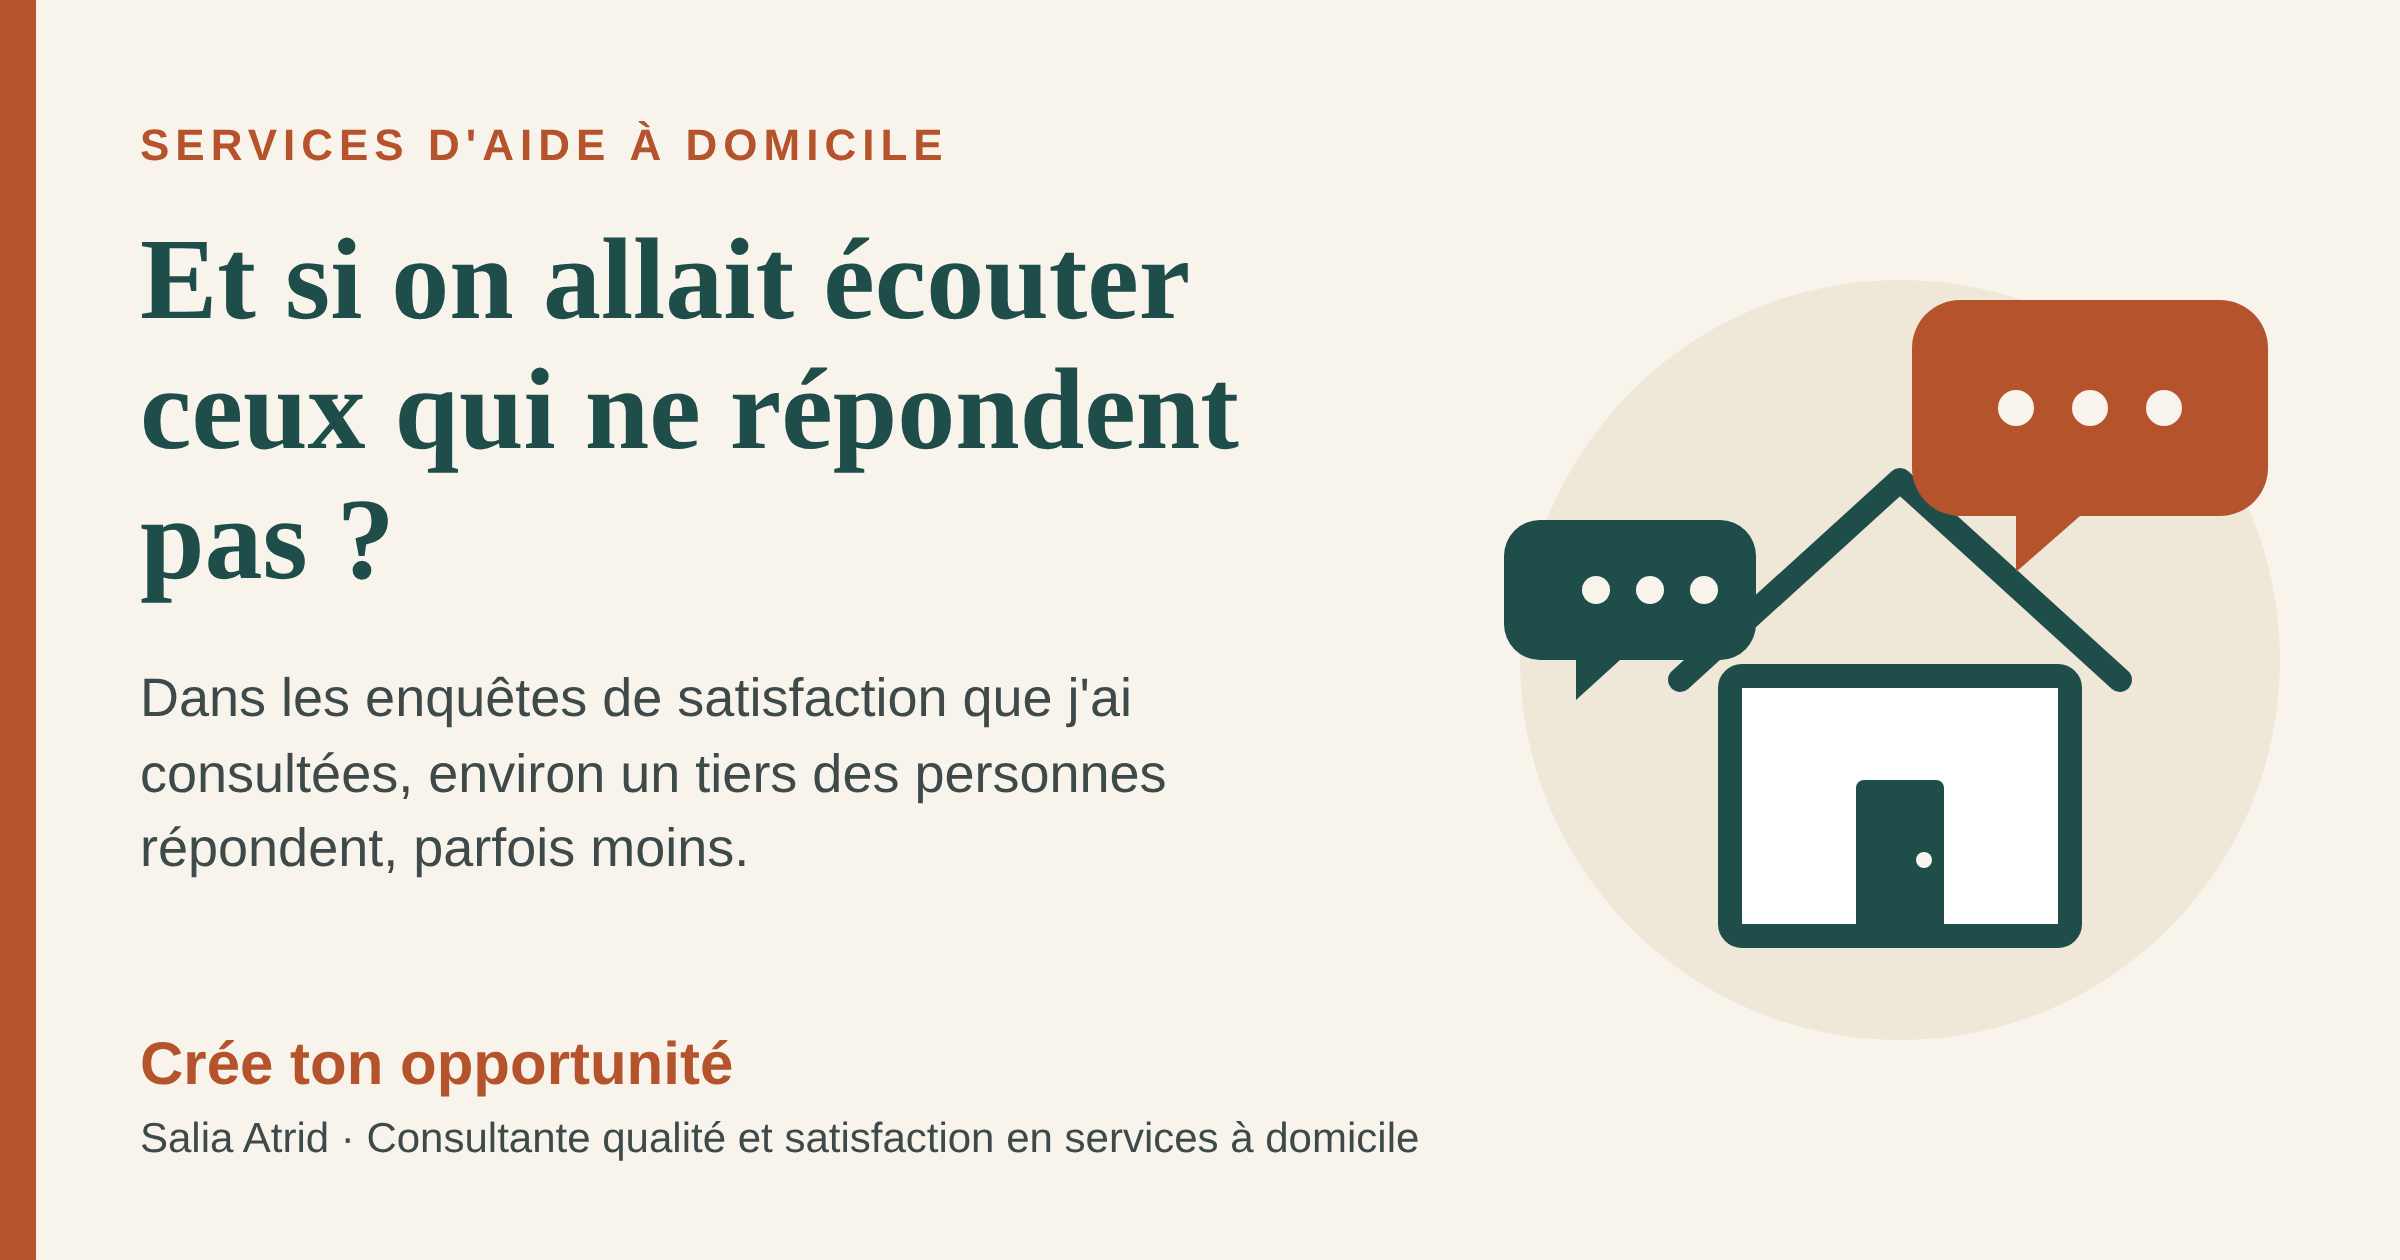
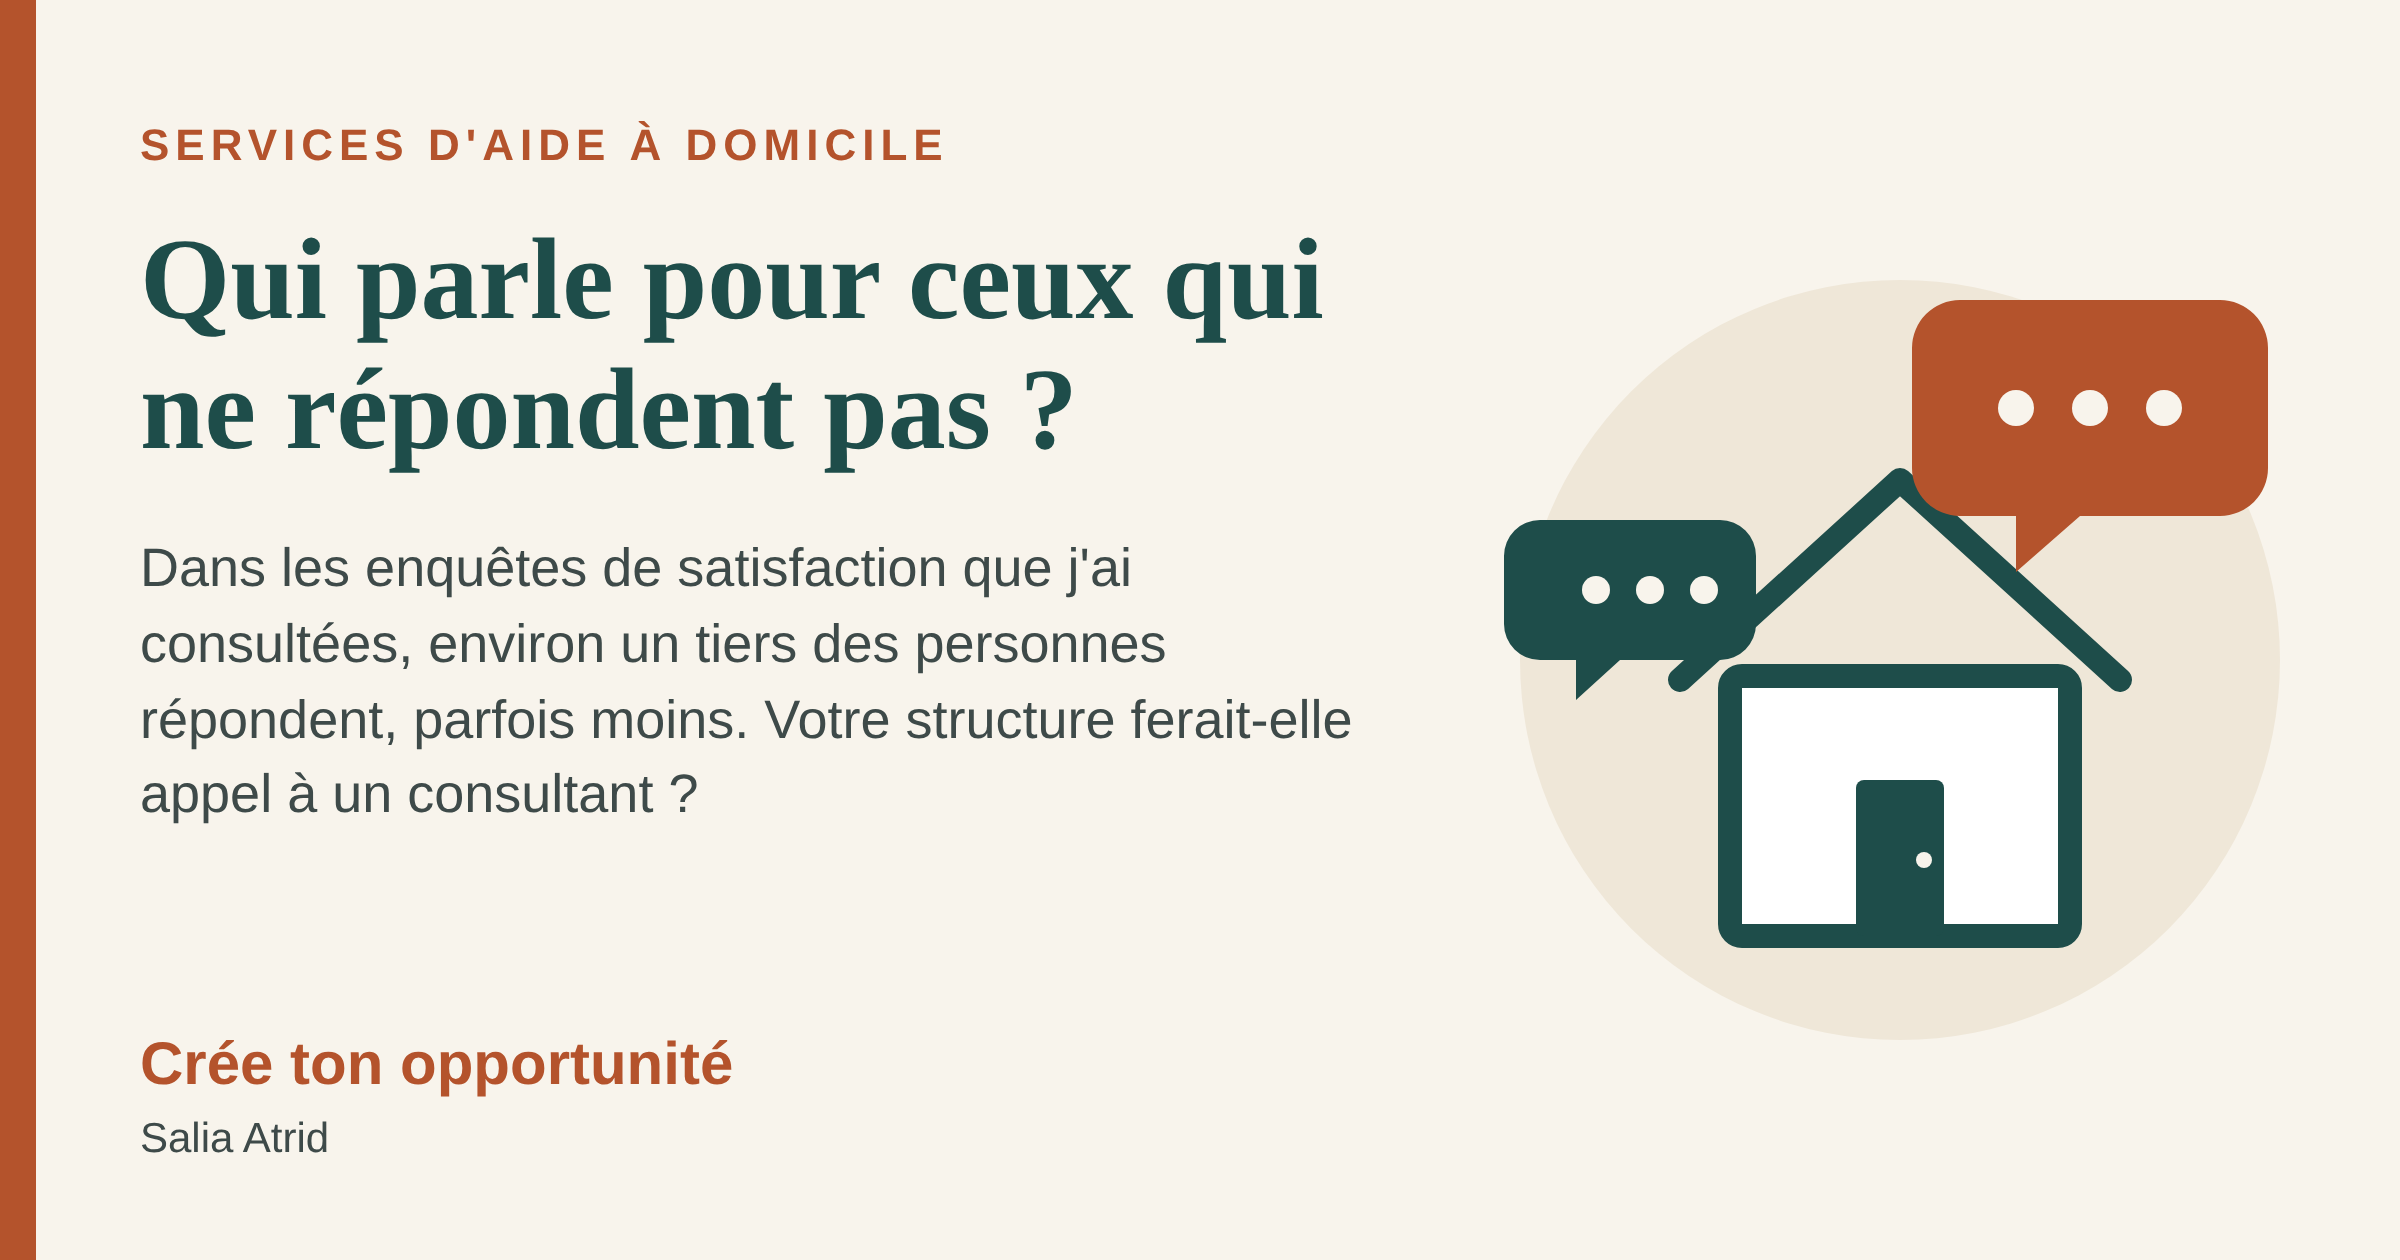
Rewrite LinkedIn post without job title
Claude-Session: https://claude.ai/code/session_01DUbn4TdR4irRbbjaA9jduD

Changed region(s): [[0.0625, 0.4024, 0.5625, 0.7119], [0.0625, 0.1857, 0.5625, 0.3714], [0.1562, 0.8976, 0.5938, 0.9286]]

diff --git a/visites-qualite/15-post-linkedin.md b/visites-qualite/15-post-linkedin.md
@@ -1,51 +1,49 @@
-# Post LinkedIn : sonder le point de vue des structures
+# Post LinkedIn : sonder l'intérêt pour un consultant
 
-*Image jointe : `post-linkedin.png` (1200 × 630 px, format paysage pour LinkedIn). Vérifiez le texte avant de publier.*
+*Image jointe : `post-linkedin.png` (1200 × 630 px). Le post ne nomme ni votre poste, ni votre offre : il sonde seulement l'intérêt de faire appel à un consultant. Relisez avant de publier.*
 
 ## Version recommandée (à copier)
 
-Et si on allait écouter ceux qui ne répondent pas ?
+Les enquêtes de satisfaction des services d'aide à domicile obtiennent souvent peu de réponses : dans celles que j'ai consultées, environ un tiers des personnes répondent, parfois moins.
 
-Dans les enquêtes de satisfaction que j'ai consultées auprès de services d'aide à domicile, environ un tiers des personnes répondent, parfois moins. Ce sont souvent les personnes isolées ou en difficulté d'écriture qui restent silencieuses.
+Qui parle pour les autres ?
 
-Je réfléchis à une façon de compléter ces enquêtes : rencontrer à domicile, avec leur accord, les bénéficiaires qui ne répondent pas, puis remettre à la structure un compte rendu et des pistes d'amélioration. Cela ne remplace pas l'évaluation externe : c'est un regard extérieur en plus.
+Je me pose une question simple : dans vos structures, **qui aurait intérêt à faire appel à un consultant** pour recueillir l'avis des personnes qui ne répondent pas, et mieux comprendre leur ressenti ?
 
-Je ne sais pas encore si cela répond à un vrai besoin, et c'est pour cela que je vous écris.
-
-Vous dirigez ou travaillez dans un service d'aide à domicile (CIAS, CCAS, association, service privé) ?
+Je ne vends rien, je cherche à comprendre :
 → Comment recueillez-vous aujourd'hui l'avis de vos bénéficiaires ?
 → Quel est votre taux de réponse ?
-→ Une visite faite par une personne extérieure vous serait-elle utile ?
+→ Un regard extérieur vous serait-il utile ?
 
 Vos retours, même critiques, m'aideront beaucoup. Écrivez-moi en commentaire ou en message privé.
 
-Salia Atrid, consultante qualité et satisfaction en services à domicile
+Salia Atrid
 **Crée ton opportunité.**
 
-#AideÀDomicile #Qualité #SatisfactionUsagers #ServicesÀDomicile #Autonomie #PersonnesÂgées
+#AideÀDomicile #Qualité #SatisfactionUsagers #ServicesÀDomicile #Autonomie
 
 ## Version courte
 
-Les enquêtes de satisfaction des services d'aide à domicile obtiennent souvent un tiers de réponses ou moins. Que disent ceux qui ne répondent pas ?
+Les enquêtes de satisfaction des services d'aide à domicile obtiennent souvent un tiers de réponses ou moins.
 
-Je réfléchis à des visites à domicile, en complément de vos enquêtes. Je voudrais connaître votre point de vue : comment recueillez-vous l'avis de vos bénéficiaires, et qu'est-ce qui vous manque ?
+Question aux structures : **qui aurait intérêt à faire appel à un consultant** pour recueillir l'avis de ceux qui ne répondent pas ?
 
-Écrivez-moi, j'ai besoin de vos retours.
+Je cherche votre point de vue, pas à vendre quoi que ce soit. Écrivez-moi.
 
-Crée ton opportunité.
+Salia Atrid
+**Crée ton opportunité.**
 
 #AideÀDomicile #Qualité #SatisfactionUsagers
 
 ## Précautions avant de publier
 - **Rien de faux ni d'exagéré** : je cite « environ un tiers, parfois moins », d'après deux exemples (CCAS de Cachan, ADMR des Côtes-d'Armor). Ne dites pas que le besoin est prouvé ni que personne ne le fait.
-- **Pas de nom de bénéficiaire ni de photo de personne** : vous ne pouvez pas utiliser des images de personnes aidées sans autorisation écrite.
-- **Votre lien avec DMS** : votre profil LinkedIn le montre peut-être. Si c'est le cas, c'est cohérent avec la déclaration que vous ferez dans les conventions.
-- **Pas d'offre commerciale ni de prix** dans ce post : vous sondez, vous ne vendez pas encore.
-- **Statut** : si vous n'avez pas encore de SIRET, restez sur « je réfléchis, je sonde » et ne vendez pas.
-- **Familles Rurales** : si vous préférez la discrétion, ne les mentionnez pas, et ne citez aucune donnée de votre ancien poste.
+- **Pas de photo de personnes aidées** sans autorisation écrite.
+- **Votre lien avec DMS** : votre profil le montre peut-être. À déclarer aux structures avec lesquelles vous contractez.
+- **Pas d'offre ni de prix** dans le post.
+- **Familles Rurales** : ne les mentionnez pas et n'utilisez aucune donnée de votre ancien poste.
 
 ## Conseils de publication
 - Publiez un **mardi, mercredi ou jeudi matin**.
 - Répondez à **chaque commentaire** dans la journée.
-- Contactez en message privé les personnes de structures qui réagissent, pour proposer un échange de 15 minutes.
+- Aux personnes de structures qui réagissent, proposez un échange de 15 minutes en message privé.
 - Notez les réponses dans un tableau : structure, taille, taux de réponse, besoin, budget.
